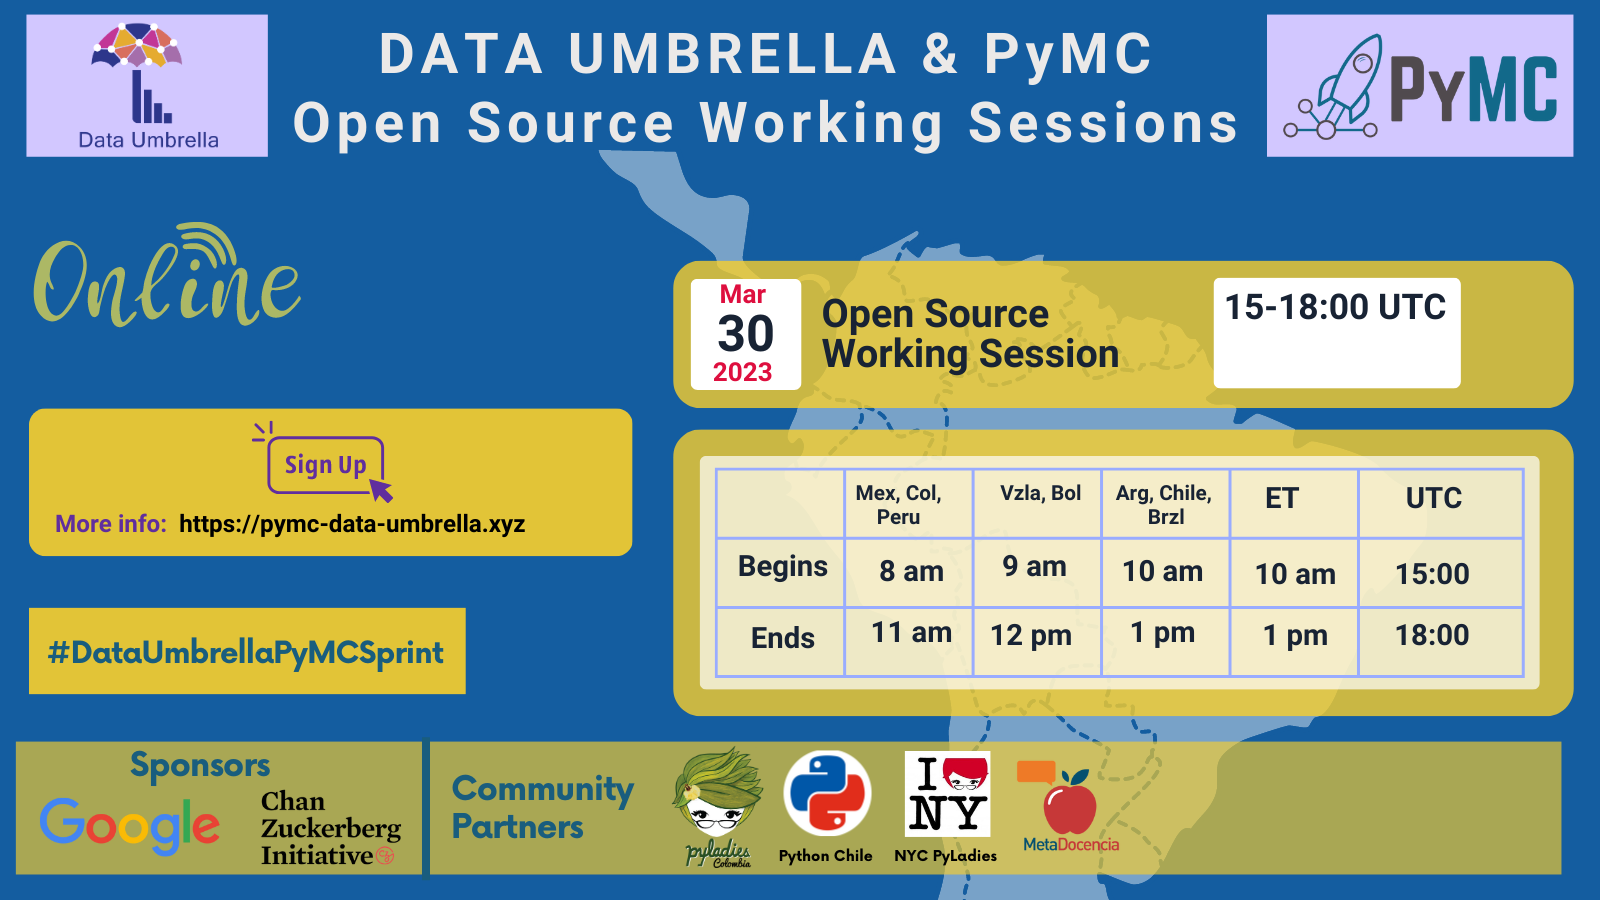
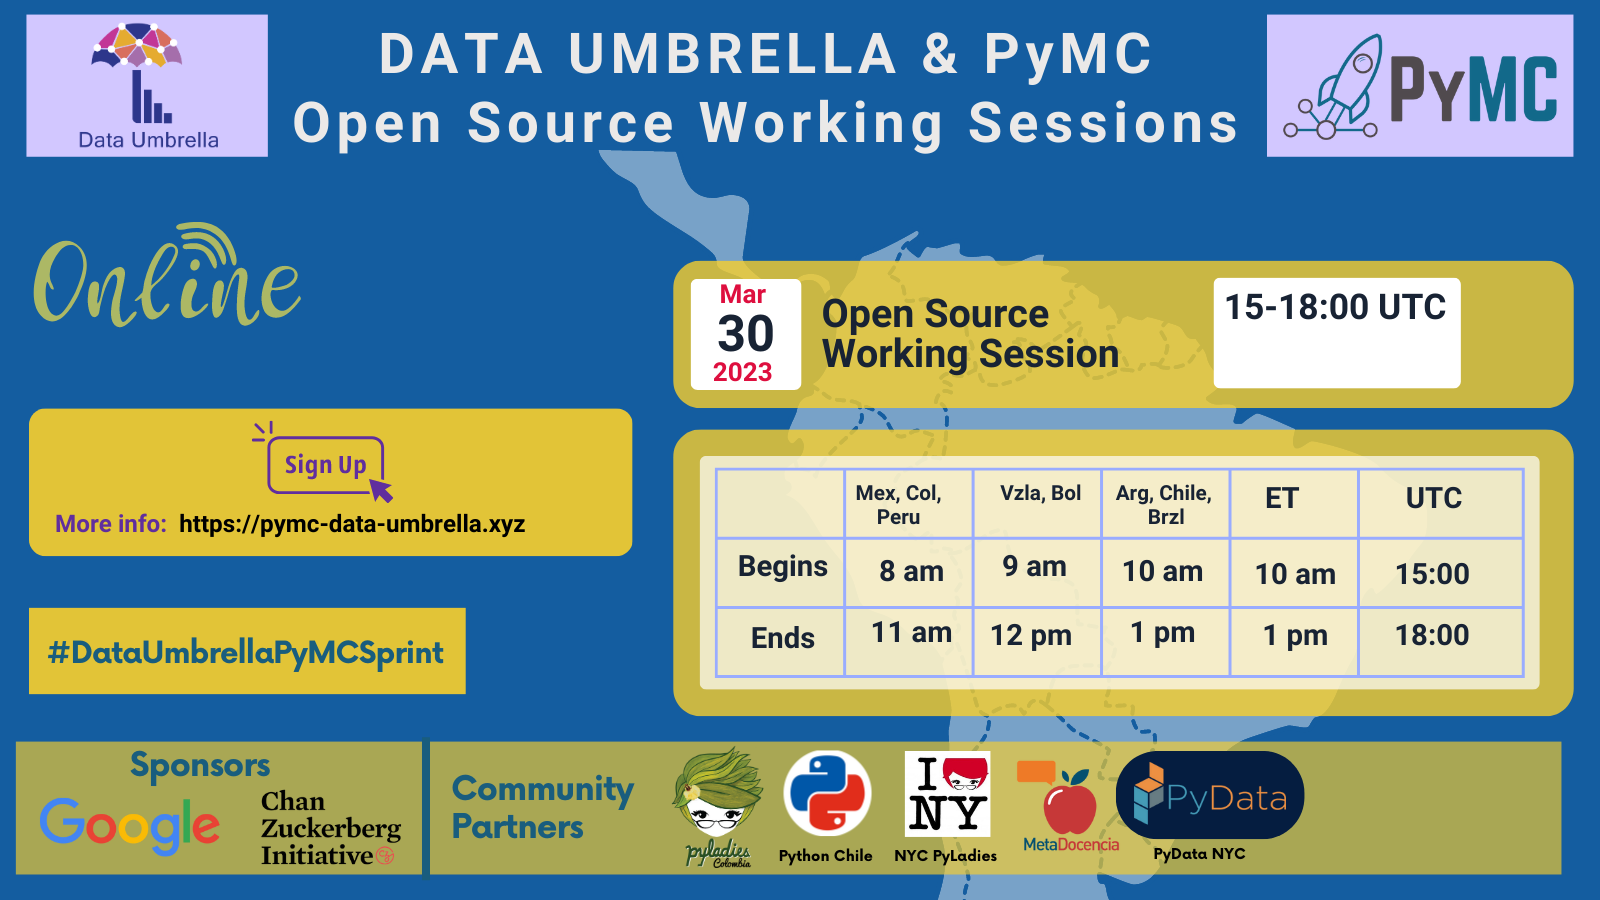
nyc python cp; about du/pymc (#213)
* nyc python cp; about du/pymc

* rename cp card

* fix formatting for nyc python

Changed region(s): [[0.6875, 0.8089, 0.8125, 0.9644]]

diff --git a/2023-03_sprint/sprint_parties/organizers.md b/2023-03_sprint/sprint_parties/organizers.md
@@ -196,13 +196,6 @@ Cristián Maureira-Fredes
 
 ::::
 
-
-## About PyMC and Data Umbrella
-
-[Data Umbrella](https://www.dataumbrella.org/) is a global community for underrepresented persons in data science. It is a fiscally hosted project of Open Collective, a registered 501(c)(3) non-profit based in California, USA. Data Umbrella: organizes online speaker series on data science and open source, organizes sprints / hackathons, curates resources on inclusive practices. All levels are welcome, beginners and experts.
-
-[PyMC](https://www.pymc.io) is a probabilistic programming package for Python that allows users to fit Bayesian models using a variety of numerical methods, most notably Markov chain Monte Carlo (MCMC) and variational inference (VI). Its flexibility and extensibility make it applicable to a large suite of problems. PyMC is a non-profit project under NumFOCUS.
-
 [reshama_web]: https://reshamas.github.io
 [reshama_github]: https://github.com/reshamas
 [reshama_twitter]: https://twitter.com/reshamas

diff --git a/2023-03_sprint/sprint_parties/du_pymc.md b/2023-03_sprint/sprint_parties/du_pymc.md
@@ -1,0 +1,12 @@
+(du_pymc)=
+# Data Umbrella & PyMC
+
+## Data Umbrella
+[Data Umbrella](https://www.dataumbrella.org/) is a global community for underrepresented persons in data science. It is a fiscally hosted project of Open Collective, a registered 501(c)(3) non-profit based in California, USA. Data Umbrella: organizes online speaker series on data science and open source, organizes sprints / hackathons, curates resources on inclusive practices. All levels are welcome, beginners and experts.
+
+[Data Umbrella on Open Collective](https://opencollective.com/data-umbrella)
+
+## PyMC
+[PyMC](https://www.pymc.io) is a probabilistic programming package for Python that allows users to fit Bayesian models using a variety of numerical methods, most notably Markov chain Monte Carlo (MCMC) and variational inference (VI). Its flexibility and extensibility make it applicable to a large suite of problems. PyMC is a non-profit project under NumFOCUS.
+
+[PyMC on Open Collective](https://opencollective.com/pymc)

diff --git a/2023-03_sprint/sprint_parties/community_partners.md b/2023-03_sprint/sprint_parties/community_partners.md
@@ -56,4 +56,13 @@ Social Media Kit {material-regular}`share;3em`
 
 **Metadocencia:** Co-Creating and Teaching Open Science in Spanish-speaking regions.
 :::
+:::{grid-item-card}
+:link: https://www.meetup.com/pydatanyc/
+:shadow: none
+:class-card: border-0
+
+![PyData NYC](../../_static/community_partners/nyc-pydata-logo.png)
+
+**PyData NYC:** Provides a forum for the community of users and developers of data analysis tools to share ideas and learn from each other.
+:::
 ::::

diff --git a/2023-03_sprint/sprint_parties/index.md b/2023-03_sprint/sprint_parties/index.md
@@ -3,6 +3,7 @@
 :::{toctree}
 :maxdepth: 2
 
+du_pymc
 organizers
 community_partners
 sponsors
